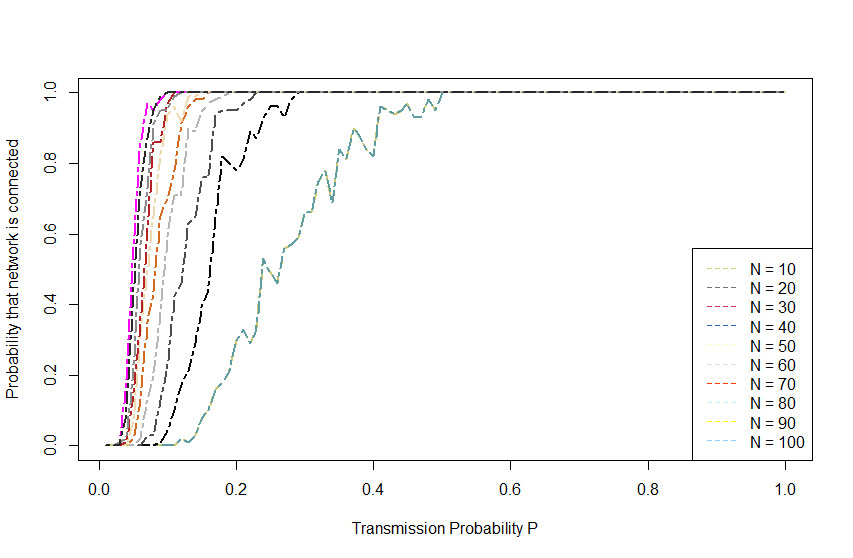
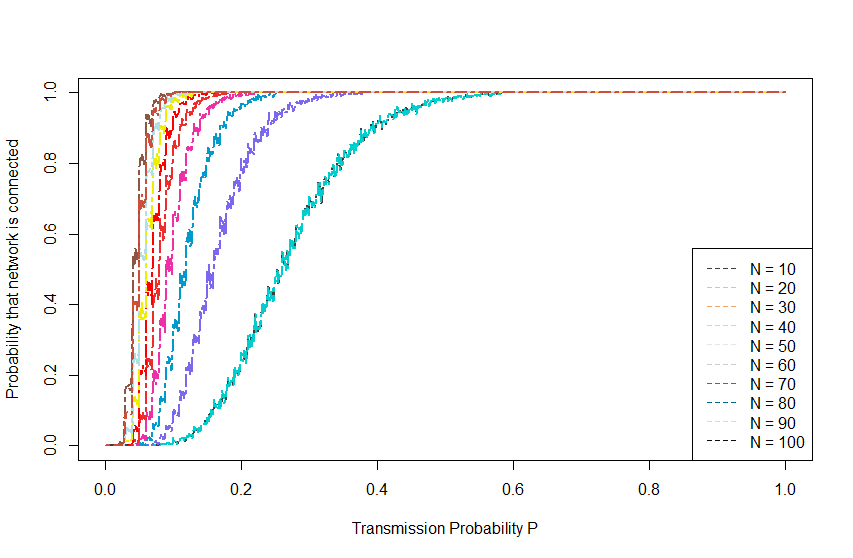
sligthly changes

diff --git a/graf.cc b/graf.cc
@@ -111,7 +111,7 @@ void RGG_test () {
 bool Statistic_test(int numVert, float p, bool directed, bool ermon, float& res, float& connect_c) {
 	int connexed, connexed_components;
 	connexed = connexed_components = 0;
-	for (int i = 0; i < 100; ++i) {
+	for (int i = 0; i < 1000; ++i) {
 		graph g_test;
 		if (ermon) g_test = erdos_renyi_random_graph(numVert, p, directed);
 		else g_test = random_geometric_graph(numVert, p);
@@ -122,32 +122,32 @@ bool Statistic_test(int numVert, float p, bool directed, bool ermon, float& res,
 	}
 	/*cout << "El graf aleatori generat amb " << numVert << " vertexs i amb una p = " << p << " te en mitjana:\n";
 	cout <<	"possibilitat de ser conex = " << float(connexed)/100.0 << "\ncomponents conexos esperat = " << float(connexed_components)/100.0 << "\n\n";*/
-	res = float(connexed)/100.0;
-	connect_c = float(connexed_components)/100.0;
-	if(res == 1) return true;
+	res = float(connexed)/1000.0;
+	connect_c = float(connexed_components)/1000.0;
+	if(res >= 1) return true;
 	return false;
 }
 
 /* 
 	 stores the result in files of the statistic tests for graphs with 10 - 100 vertexs, increasing 10 vertexs per loop
 	 ermon indicates if the graph is gnp or rgg
-	 i indicates which result we wanna obtain:
-	 - 0: probability to be connected 
-	 - 1: waiting number of CC 
+	 opt indicates which result we wanna obtain:
+	 - 1: probability to be connected 
+	 - 2: waiting number of CC 
 */	 
 
-void get_statistic_data_file(bool ermon, int i){
+void get_statistic_data_file(bool ermon, int opt){
 	for(int n = 10; n <= 100; n += 10){
 		bool b = false;
 		string file =  to_string(n) + ".txt";
 		ofstream output(file);
-		for(float i = 0.01f; i <= 1.0f; i += 0.01f){
+		for(float i = 0.001f; i <= 1.0f; i += 0.001f){
 			output << i << " ";
 			float res;
 			float connect_c;
 			if(not b){
 				b = Statistic_test(n, i, false, ermon,res, connect_c);
-				if(i == 0) output << res;
+				if(opt == 1) output << res;
 				else output << connect_c;
 			}
 			else output << 1;
@@ -178,10 +178,11 @@ int main () {
 				break;
 			case 3:
 				cout << "Please choose which kind of random graph you want to run the test" << endl;
-				cout << "0) Geometric Random Graph" << endl;
-				cout << "1) Binomial Random Graph" << endl;
-				bool ermon;
+				cout << "1) Geometric Random Graph" << endl;
+				cout << "2) Binomial Random Graph" << endl;
+				int ermon;
 				cin >> ermon;
+				bool b = (ermon == 1)? false:true;
 				cout << "Please choose which kind of statistic test you want to obtain" << endl;
 				cout << "1) probability of the graph being connected" << endl;
 				cout << "2) number of waiting connected components of a graph" << endl;
